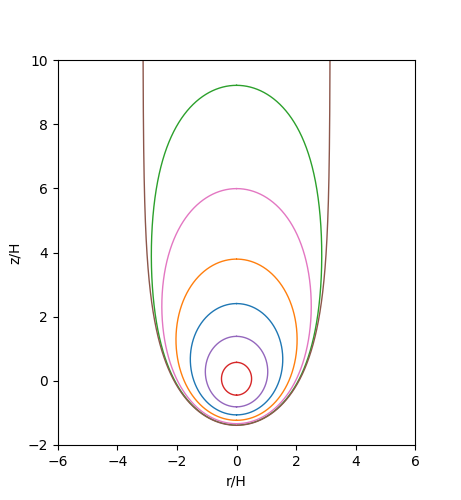
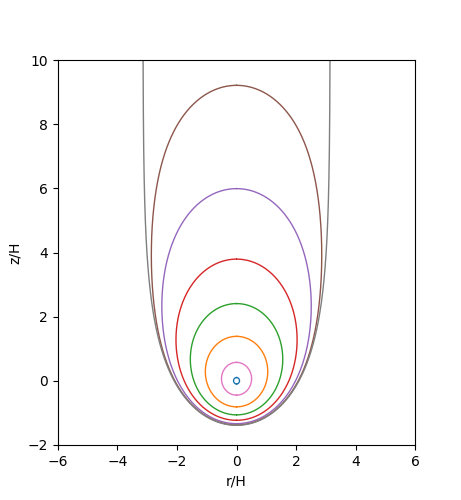
add tqdm

diff --git a/superbubbles.py b/superbubbles.py
@@ -1,8 +1,9 @@
 #!/usr/bin/python3
 
 from numpy import pi, sqrt, arccos, exp
+from tqdm import tqdm
 import scipy.integrate as integrate
-import numpy as np
+import numpy as np; np.seterr(invalid='ignore')
 import plawt
 
 # Scaling
@@ -16,16 +17,16 @@ def r(z,y):
 	return 2 * H * arccos(arg)
 
 z = np.arange(-2, 10, 0.00001)
-y = [0.5, 1, 1.4, 1.7, 1.9, 1.98, 2.0]
+y = [0.1, 0.5, 1, 1.4, 1.7, 1.9, 1.98, 2.0]
 figure1 = {
 	'ylabel': 'z/H', 'xlabel': 'r/H',
 	'filename': 'shockfront.png',
 	'ylim': (-2, 10), 'xlim': (-6, 6),
-	'figsize': (6/1.3, 6.5/1.3)
-	# 'show': True
+	'figsize': (6/1.3, 6.5/1.3),
+	'show': False
 }
 
-for i, yi in enumerate(y):
+for i, yi in enumerate(tqdm(y)):
 	figure1[i] = {'x': np.concatenate((r(z, y[i]), -r(z, y[i]))), 'y': np.concatenate((z,z))}
 plawt.plot(figure1)
 
